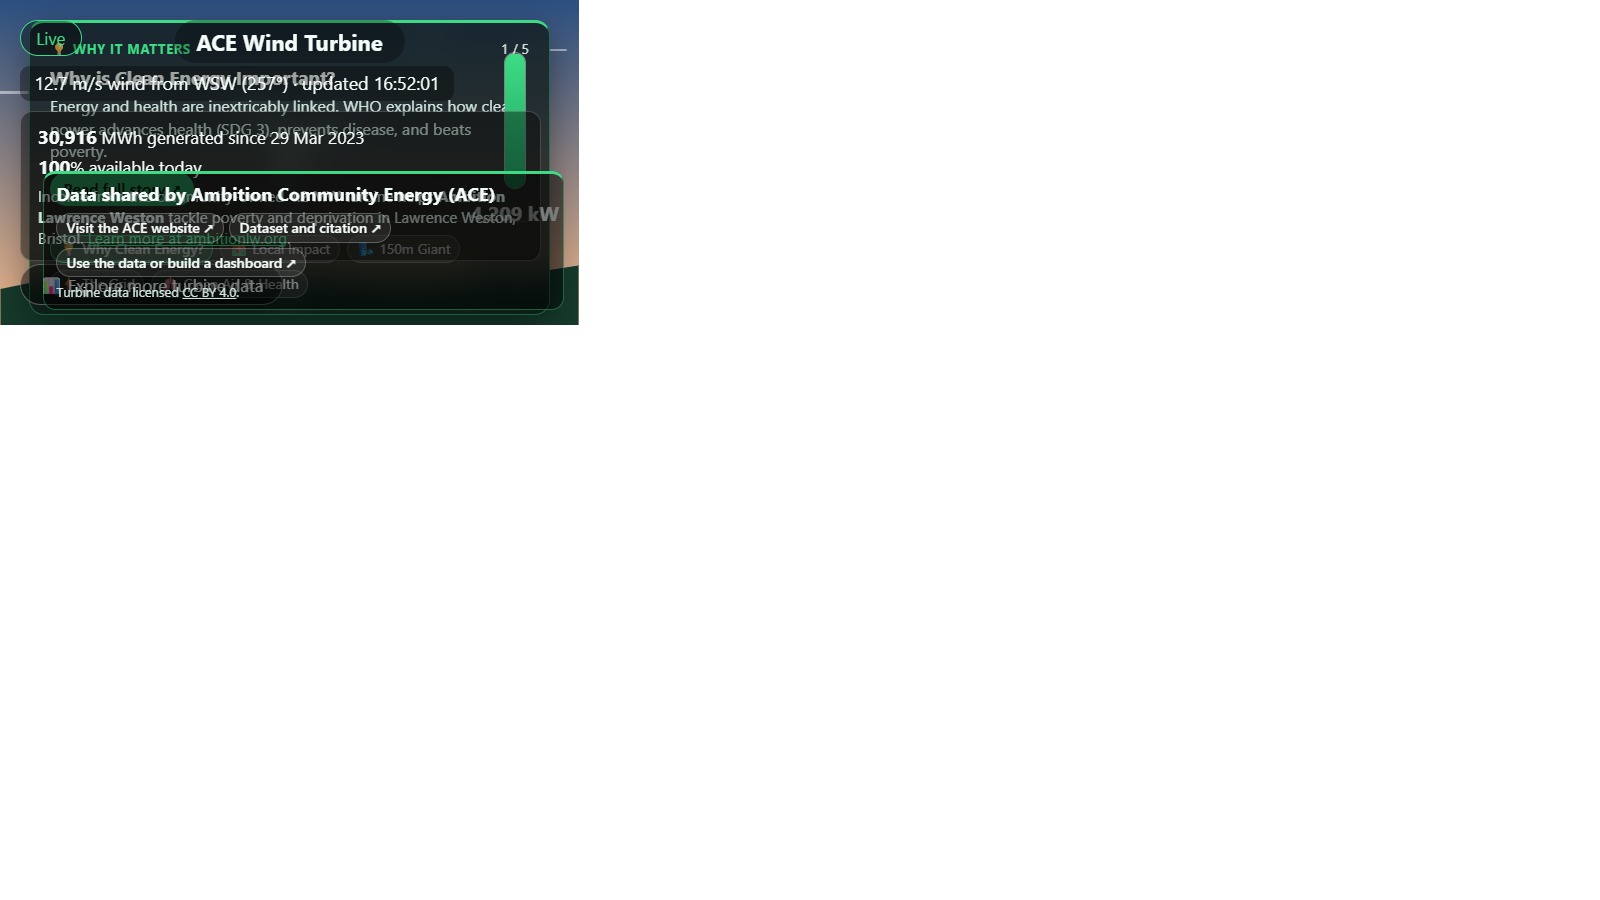
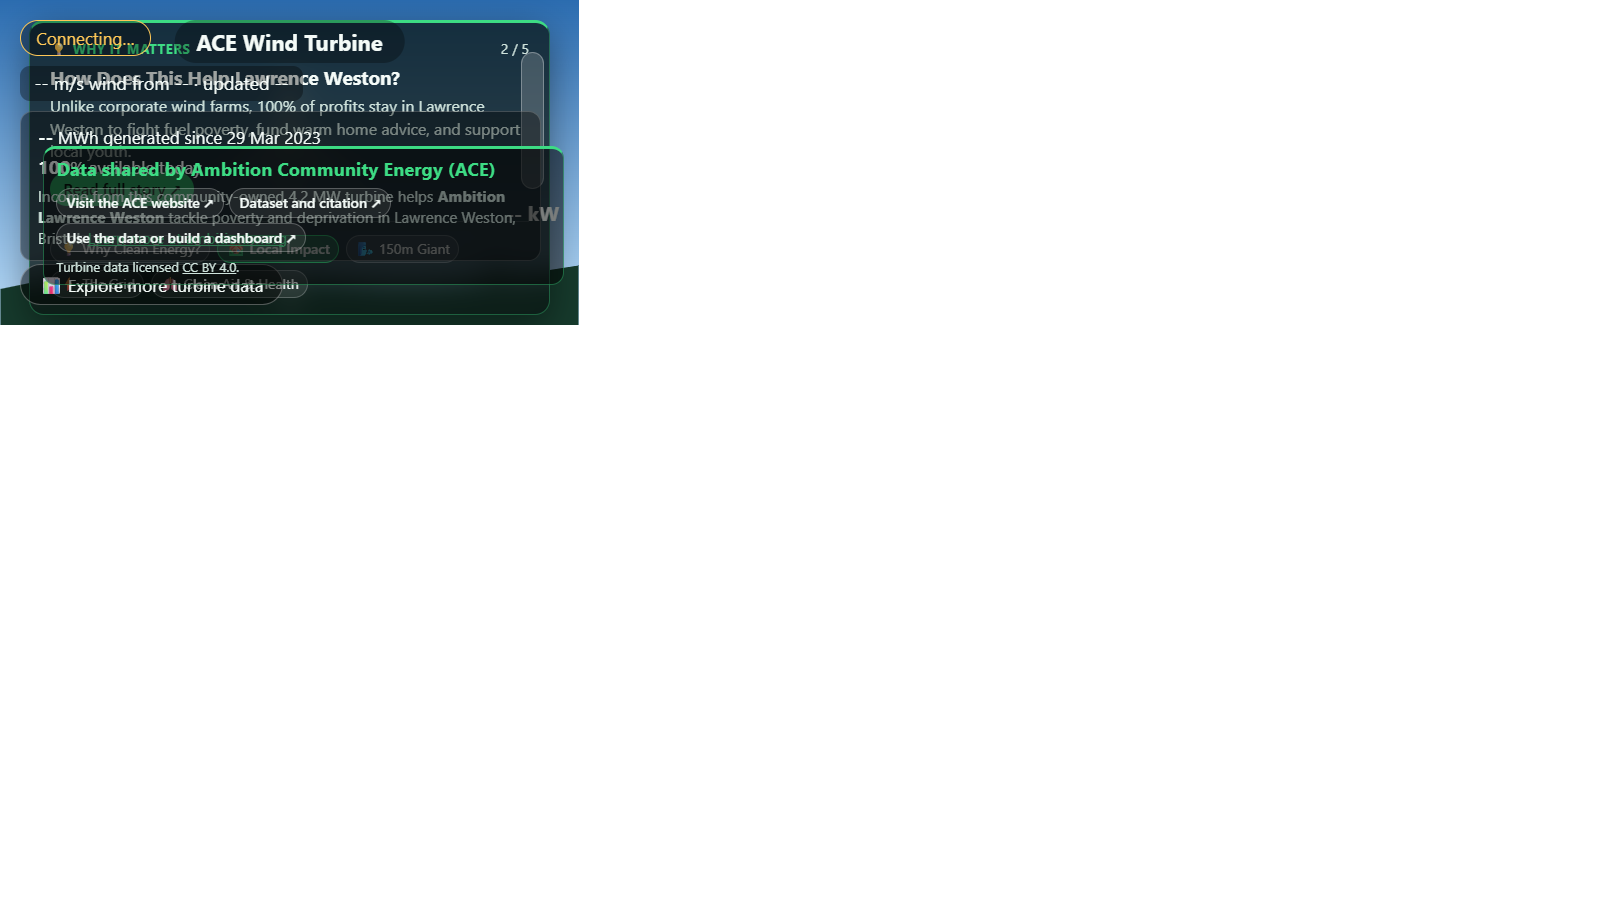
concept-7: position credits box higher and highlight title in green
- Raised bottom position of credits-box from clamp(0.75rem, 2vw, 1.5rem) to clamp(2rem, 4.5vh, 3.25rem) for better visibility and breathing room from display bottom
- Set .credits-title color to var(--good) green for 'Data shared by Ambition Community Energy (ACE)'
- Updated concept-7 screenshot

Changed region(s): [[0.0, 0.0, 0.375, 0.3422]]

diff --git a/solutions/concept-7-live-digital-twin-popups/styles.css b/solutions/concept-7-live-digital-twin-popups/styles.css
@@ -558,7 +558,7 @@ body {
 .credits-box {
   position: absolute;
   right: clamp(0.75rem, 2vw, 1.5rem);
-  bottom: clamp(0.75rem, 2vw, 1.5rem);
+  bottom: clamp(2rem, 4.5vh, 3.25rem);
   max-width: min(38ch, 55vw);
   background: rgba(0, 0, 0, 0.5);
   border: 1px solid rgba(61, 220, 132, 0.4);
@@ -583,6 +583,7 @@ body {
   font-size: 0.92rem;
   font-weight: 700;
   line-height: 1.2;
+  color: var(--good);
 }
 
 .credits-text {
